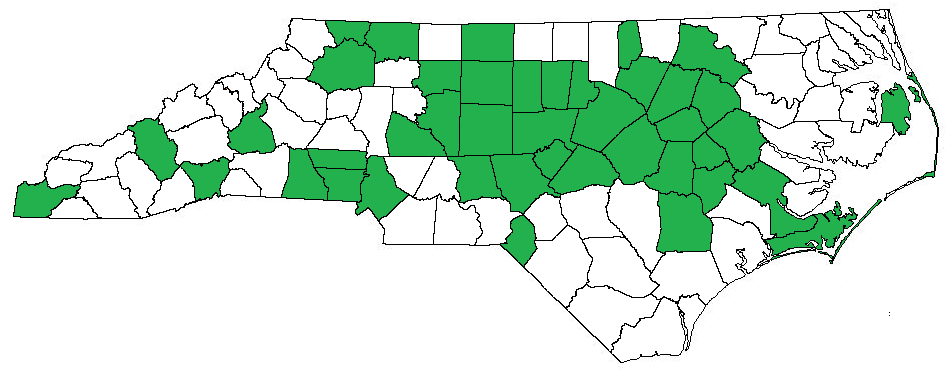
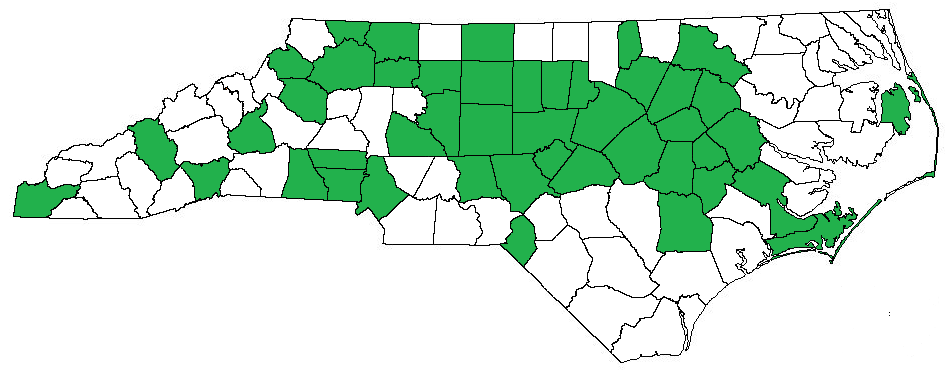
4/10/2022 bbq

Changed region(s): [[0.2756, 0.1176, 0.3675, 0.3235], [0.3981, 0.1471, 0.4593, 0.2353]]

diff --git a/bbq/index.html b/bbq/index.html
@@ -52,10 +52,10 @@ Both use vinegar as their base for the sauce, often with red pepper (among other
 <br>
 <center>
 	<h2>Current County Counter</h2>
-	<h3><span style="color:red">42</span> / 100</h3>
-	<h3>58 different in-state BBQ joints</h3>
+	<h3><span style="color:red">45</span> / 100</h3>
+	<h3>61 different in-state BBQ joints</h3>
 	<h3>2 annual BBQ events</h3>
-	<p>(last updated 3/26/2022)</p>
+	<p>(last updated 4/10/2022)</p>
 </center>
 <br>
 
@@ -68,6 +68,11 @@ Both use vinegar as their base for the sauce, often with red pepper (among other
 <p><b>Alleghany County</b></p>
 <ul>
 	<li>Motley's BBQ - Laurel Springs - 6/23/2021 - <a href="https://drive.google.com/drive/folders/1Yze-9CFSAmc8RgDYN24iREB9CJoTW_ic?usp=sharing">pictures</a></li>
+</ul>
+<br>
+<p><b>Caldwell County</b></p>
+<ul>
+	<li>Hannah's BBQ Lenoir - Lenoir - 4/9/2022 - pictures</li>
 </ul>
 <br>
 <p><b>Carteret County</b></p>
@@ -273,6 +278,11 @@ Both use vinegar as their base for the sauce, often with red pepper (among other
 	<li>The Pit Authentic Barbecue - Raleigh - 1/23/2020, 10/30/2020, 4/29/2021 - <i><span class="ncbsbbq">True 'Cue NC</span></i></li>
 </ul>
 <br>
+<p><b>Watauga County</b></p>
+<ul>
+	<li>Woodlands Barbeque - Salter Path - 4/10/2022 - pictures</li>
+</ul>
+<br>
 <p><b>Wayne County</b></p>
 <ul>
 	<li>Grady's BBQ - Dudley - 12/13/2019 - <i><span class="ncbsbbq">NCBS BBQ Trail</span></i>; <i><span class="ncbsbbq">True 'Cue NC</span></i></li>
@@ -287,6 +297,11 @@ Both use vinegar as their base for the sauce, often with red pepper (among other
 <p><b>Wilson County</b></p>
 <ul>
 	<li>Parker's BBQ - Wilson - 8/4/2018, 2/10/2019, and 12/13/2019</li>
+</ul>
+<br>
+<p><b>Yadkin County</b></p>
+<ul>
+	<li>Old Stage Grill - Yadkinville - 4/8/2022 - pictures</li>
 </ul>
 <br>
 <p><b>Honorable Mentions from Out-Of-State</b></p>
@@ -396,6 +411,8 @@ Both use vinegar as their base for the sauce, often with red pepper (among other
 
 <p>After Sid's, we backtracked westward to Kenansville, where we were admitted to the festival.  There, on the grounds of the Duplin County Events Center, we tried some of eastern NC's local microbreweries (I had the Chuckledunk dunkelweizen by New Bern's Brutopia Brewery, and the Southern Brewed Breakfast blond ale by Mount Olive's R&ampR Brewing), some local bluegrass (the Grass Strings, of Albemarle, former NASCAR driver Kyle Petty, of Level Cross), and, of course, some truly local 'que, cooked up by 20 teams with names like Wee Woo Cue (a local fire station), and Mr. Curley’s Que Crew, among others.  We paid an extra $10 each to enter the tasting contest, and also each had another sandwich for dinner.</p>
 <!-- https://web.archive.org/web/20220329023425/https://www.bluebrewandque.com/barbeque/ -->
+
+<p>My next big barbecue fest was the second weekend of April, when I went camping in the Wilson's Creek section of Pisgah National Forest.  On the way in, I stopped in Yadkinville's Old Stage Grill.  Filled to the brim with locals for a Friday night dinner, barbecue wasn't their main dish (most people were ordering Mexican dishes like ACP or quesadillas), the barbecue was solid.  After spending the night near <a href="../hiking/pisgah/harper-creek-falls/harper-creek-falls.html">Harper Creek Falls</a> and exploring the area in the morning, we went to town for a late lunch/early dinner and ate at Hannah's BBQ Lenoir, which proffered up another strong round of 'cue; I also had some banana pudding.  After a second night of camping, I convinced the group to drive out the hard way to Blowing Rock and Woodlands Barbeque, taking the trailhead's Brown Mountain Beach Rd (gravel) to NC 90 (mostly gravel) to Anthony Creek Rd to Globe Rd (mostly gravel).  The latter road in particular was very steep, and got pretty squirrelly in some places.  Navigability of the routes aside, the food and atmosphere of Woodlands was enjoyed by all; unfortunately, the restaurant was without the live music which they offered before the Covid pandemic.</p>
 
 
 <br>
